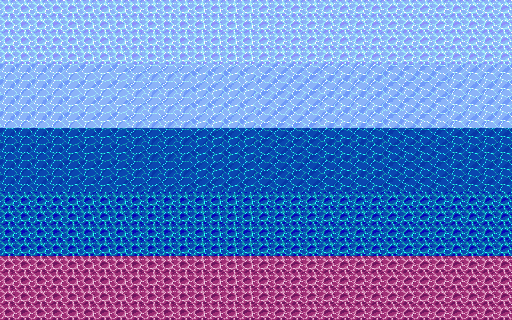
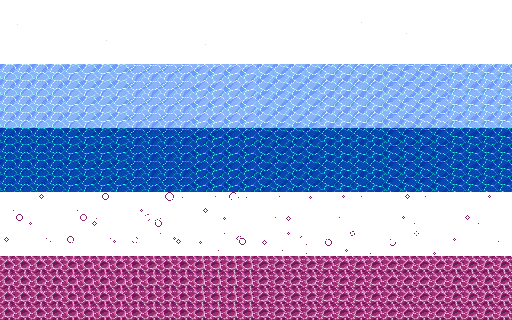
better debug map

diff --git a/src/game/tilemap/TileConfig.ts b/src/game/tilemap/TileConfig.ts
@@ -49,10 +49,10 @@ export interface DemoBlockingPlacement
 }
 
 export const ANIMATED_BASE_TILE_CONFIG: Readonly<Record<number, AnimatedTileConfig>> = {
-    [VOID_TILE_INDEX]: { animKey: VOID_ANIM_KEY, startFrame: 8, endFrame: 15, frameRate: 8 },
-    [WATER_TILE_INDEX]: { animKey: WATER_ANIM_KEY, startFrame: 0, endFrame: 7, frameRate: 8 },
-    [CRYSTAL_TILE_INDEX]: { animKey: CRYSTAL_ANIM_KEY, startFrame: 16, endFrame: 23, frameRate: 8 },
-    [LAVA_TILE_INDEX]: { animKey: LAVA_ANIM_KEY, startFrame: 32, endFrame: 39, frameRate: 8 },
+    [VOID_TILE_INDEX]: { animKey: VOID_ANIM_KEY, startFrame: 24, endFrame: 31, frameRate: 3 },
+    [WATER_TILE_INDEX]: { animKey: WATER_ANIM_KEY, startFrame: 8, endFrame: 15, frameRate: 8 },
+    [CRYSTAL_TILE_INDEX]: { animKey: CRYSTAL_ANIM_KEY, startFrame: 0, endFrame: 7, frameRate: 9 },
+    [LAVA_TILE_INDEX]: { animKey: LAVA_ANIM_KEY, startFrame: 32, endFrame: 39, frameRate: 2 },
 };
 
 export const ANIMATED_TILE_OVERRIDES: Readonly<Record<number, string>> = {
@@ -94,31 +94,35 @@ export const DEMO_BASE_LAYER: readonly (readonly number[])[] = [
 ];
 
 export const DEMO_BORDER_LAYER: readonly (readonly number[])[] = [
-    [EMPTY_TILE, EMPTY_TILE, EMPTY_TILE, EMPTY_TILE, EMPTY_TILE, EMPTY_TILE, EMPTY_TILE],
-    [EMPTY_TILE, EMPTY_TILE, EMPTY_TILE, 4, 8, EMPTY_TILE, EMPTY_TILE],
-    [EMPTY_TILE, EMPTY_TILE, EMPTY_TILE, 12, 16, EMPTY_TILE, EMPTY_TILE],
-    [EMPTY_TILE, EMPTY_TILE, EMPTY_TILE, EMPTY_TILE, 24, EMPTY_TILE, EMPTY_TILE],
-    [EMPTY_TILE, EMPTY_TILE, EMPTY_TILE, EMPTY_TILE, 32, EMPTY_TILE, EMPTY_TILE],
-    [EMPTY_TILE, EMPTY_TILE, EMPTY_TILE, EMPTY_TILE, EMPTY_TILE, EMPTY_TILE, EMPTY_TILE],
-    [EMPTY_TILE, EMPTY_TILE, EMPTY_TILE, EMPTY_TILE, EMPTY_TILE, EMPTY_TILE, EMPTY_TILE],
+    [EMPTY_TILE, 14, 14, 14, EMPTY_TILE, EMPTY_TILE, EMPTY_TILE],
+    [13, EMPTY_TILE, EMPTY_TILE, EMPTY_TILE, EMPTY_TILE, 30,         EMPTY_TILE],
+    [13, 10,         15,         EMPTY_TILE, 29,         EMPTY_TILE, 31],
+    [9, EMPTY_TILE, 17,         13,         EMPTY_TILE, 15,         31],
+    [9, EMPTY_TILE, 8,          6,          EMPTY_TILE, 1,          EMPTY_TILE],
+    [25        , 8,          4,          EMPTY_TILE, EMPTY_TILE, 1,          EMPTY_TILE],
+    [EMPTY_TILE, 24,         24,         36,         36,         32,         EMPTY_TILE],
 ];
 
 export const DEMO_DECORATION_LAYER: readonly (readonly number[])[] = [
     [EMPTY_TILE, EMPTY_TILE, EMPTY_TILE, EMPTY_TILE, EMPTY_TILE, EMPTY_TILE, EMPTY_TILE],
-    [EMPTY_TILE, 78, 80, 82, EMPTY_TILE, EMPTY_TILE, EMPTY_TILE],
-    [EMPTY_TILE, 84, EMPTY_TILE, 90, EMPTY_TILE, 43, EMPTY_TILE],
-    [EMPTY_TILE, 59, 61, EMPTY_TILE, 87, 44, EMPTY_TILE],
-    [EMPTY_TILE, EMPTY_TILE, 68, EMPTY_TILE, 89, EMPTY_TILE, EMPTY_TILE],
-    [EMPTY_TILE, 75, 77, EMPTY_TILE, EMPTY_TILE, EMPTY_TILE, EMPTY_TILE],
+    [EMPTY_TILE, 42, 43, 44, EMPTY_TILE, EMPTY_TILE, EMPTY_TILE],
+    [EMPTY_TILE, 45, 49, 50, EMPTY_TILE, 0, EMPTY_TILE],
+    [EMPTY_TILE, EMPTY_TILE, EMPTY_TILE, 51, 40, 1, EMPTY_TILE],
+    [EMPTY_TILE, EMPTY_TILE, 18, 19, 41, EMPTY_TILE, EMPTY_TILE],
+    [EMPTY_TILE, EMPTY_TILE, EMPTY_TILE, EMPTY_TILE, EMPTY_TILE, EMPTY_TILE, EMPTY_TILE],
     [EMPTY_TILE, EMPTY_TILE, EMPTY_TILE, EMPTY_TILE, EMPTY_TILE, EMPTY_TILE, EMPTY_TILE],
 ];
 
 export const DEMO_BLOCKING_PLACEMENTS: readonly DemoBlockingPlacement[] = [
-    { x: 2, y: 2, blocking: 8, floating: 16 },
-    { x: 3, y: 2, blocking: 9, floating: 17 },
-    { x: 1, y: 4, blocking: 0 },
-    { x: 2, y: 4, blocking: 1 },
-    { x: 4, y: 5, blocking: 18, floating: 26 },
+    { x: 1, y: 1, blocking: 30 },
+    { x: 2, y: 1, blocking: EMPTY_TILE, floating: 0 },
+    { x: 2, y: 2, blocking: 52 },
+    { x: 3, y: 1, blocking: EMPTY_TILE, floating: 3 },
+    { x: 3, y: 2, blocking: 55 },
+    { x: 5, y: 2, blocking: 15 },
+    { x: 4, y: 3, blocking: EMPTY_TILE, floating: 8 },
+    { x: 4, y: 4, blocking: 60 },
+    { x: 2, y: 4, blocking: 0 },
 ];
 
 export function getAnimatedTileConfig (tileIndex: number): AnimatedTileConfig | undefined

diff --git a/src/game/tilemap/WorldMap.ts b/src/game/tilemap/WorldMap.ts
@@ -73,7 +73,7 @@ export class WorldMap
             frameHeight: TILE_SIZE
         });
 
-        scene.load.spritesheet(BORDER_TILESET_KEY, 'tile-boarder.png', {
+        scene.load.spritesheet(BORDER_TILESET_KEY, 'tile-border.png', {
             frameWidth: TILE_SIZE,
             frameHeight: TILE_SIZE
         });
